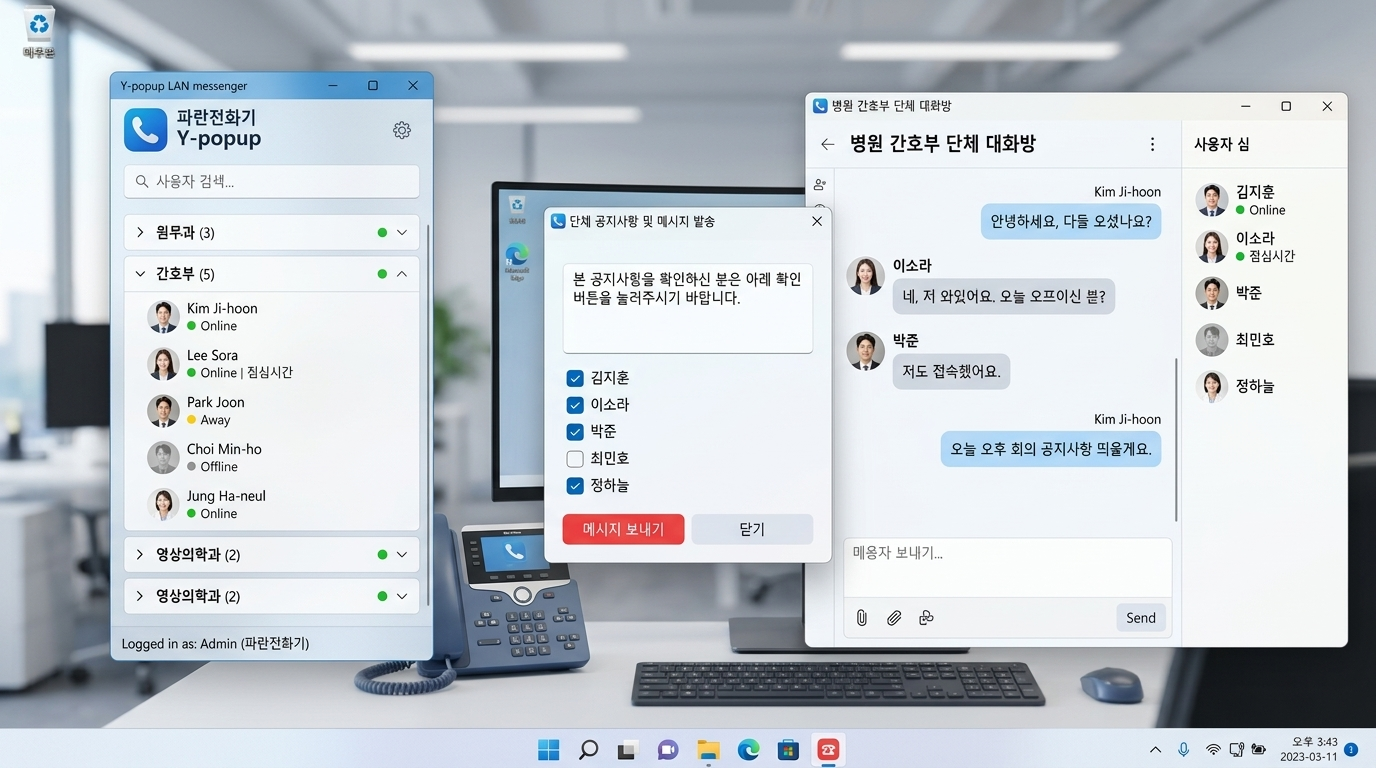
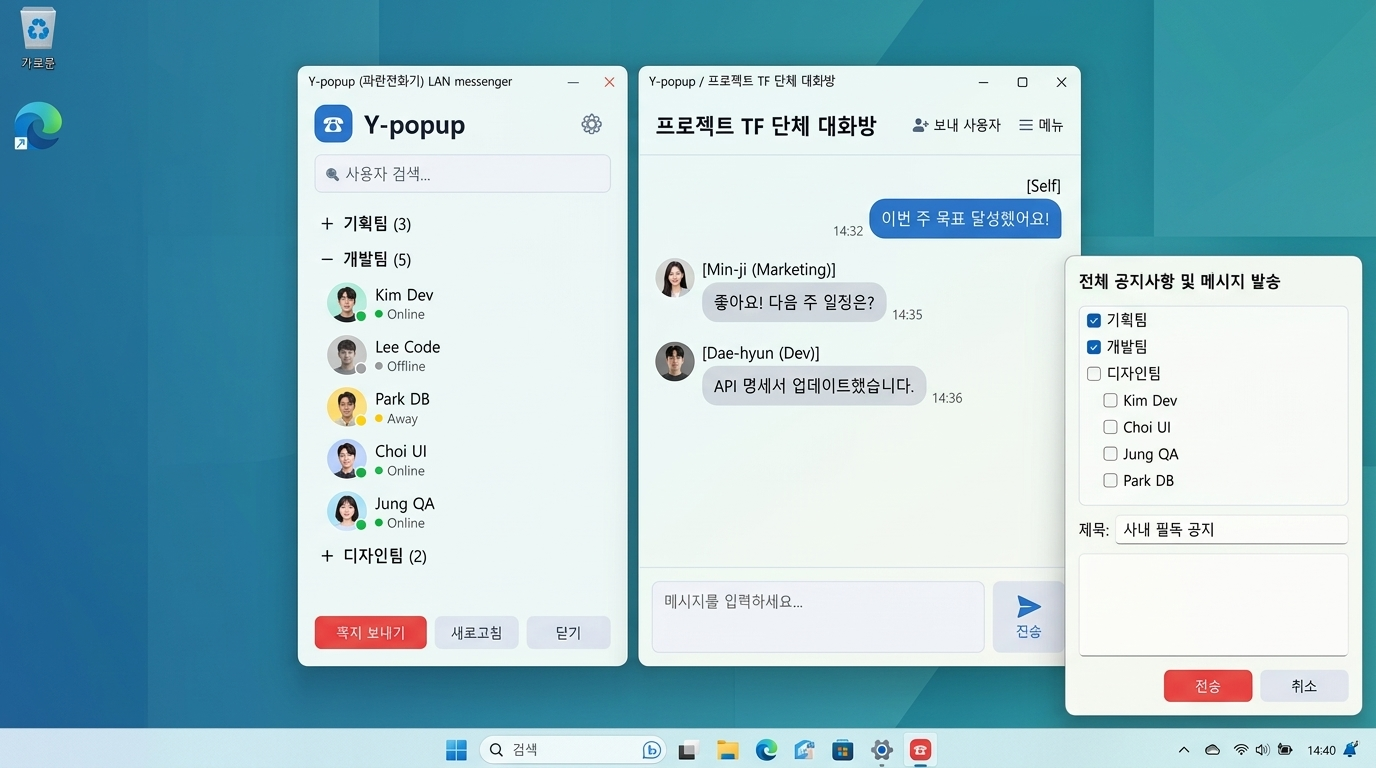
docs: generalize use cases to enterprise office and update preview screenshot

diff --git a/docs/ARCHITECTURE.md b/docs/ARCHITECTURE.md
@@ -5,7 +5,7 @@
 본 문서는 **Y-popup (파란전화기)** 메신저에 **멀티챗 (1:1 다중 대화 및 다자간 대화방)** 및 **사용자/대화방 그룹화 (조직도/부서 트리 및 채팅방 그룹)** 기능을 확장하기 위한 전체 기술 아키텍처 및 데이터 흐름을 정의합니다.
 
 ### 1.1 배경 및 목적
-* 병원 및 중소규모 오피스 환경에서 기존 1회성 팝업(X-Popup 스타일)을 넘어, **부서/팀별 사용자 트리(접기/펼치기)**, **단체 공지/쪽지 일괄 발송**, **실시간 다자간 그룹 채팅 세션** 지원.
+* 사내 및 중소규모 오피스 환경에서 기존 1회성 팝업(X-Popup 스타일)을 넘어, **부서/팀별 사용자 트리(접기/펼치기)**, **단체 공지/쪽지 일괄 발송**, **실시간 다자간 그룹 채팅 세션** 지원.
 * **서버리스(Serverless) Pure LAN P2P 환경** 유지: 별도 중앙 서버 설치 없이 UDP 브로드캐스트와 P2P TCP Mesh 소켓 통신으로 동작.
 * **하위 호환성(Backward Compatibility)**: 기존 Y-popup v2.x 클라이언트(단순 1:1 쪽지만 지원)와 혼용 환경에서도 패킷 오류나 크래시 없이 통신 가능.
 

diff --git a/implementation_ypopup_multichat.md b/implementation_ypopup_multichat.md
@@ -1,7 +1,7 @@
 # Y-popup 멀티챗 및 조직도/그룹화 확장 개발 계획
 
 ## 1. 개요
-병원 등 실무 환경의 요구사항(부서별 조직도 트리, 단체 쪽지 일괄 발송, 다자간 그룹 채팅방)을 Y-popup의 경량 P2P LAN 철학을 유지하면서 구현하기 위한 마스터 계획서입니다.
+사내 업무 등 실무 환경의 요구사항(부서별 조직도 트리, 단체 쪽지 일괄 발송, 다자간 그룹 채팅방)을 Y-popup의 경량 P2P LAN 철학을 유지하면서 구현하기 위한 마스터 계획서입니다.
 실제 구현은 경량 모델(Fast/Mini)이 대화 맥락 없이도 파일 단위로 독립 작업할 수 있도록 설계되었습니다.
 
 ---
